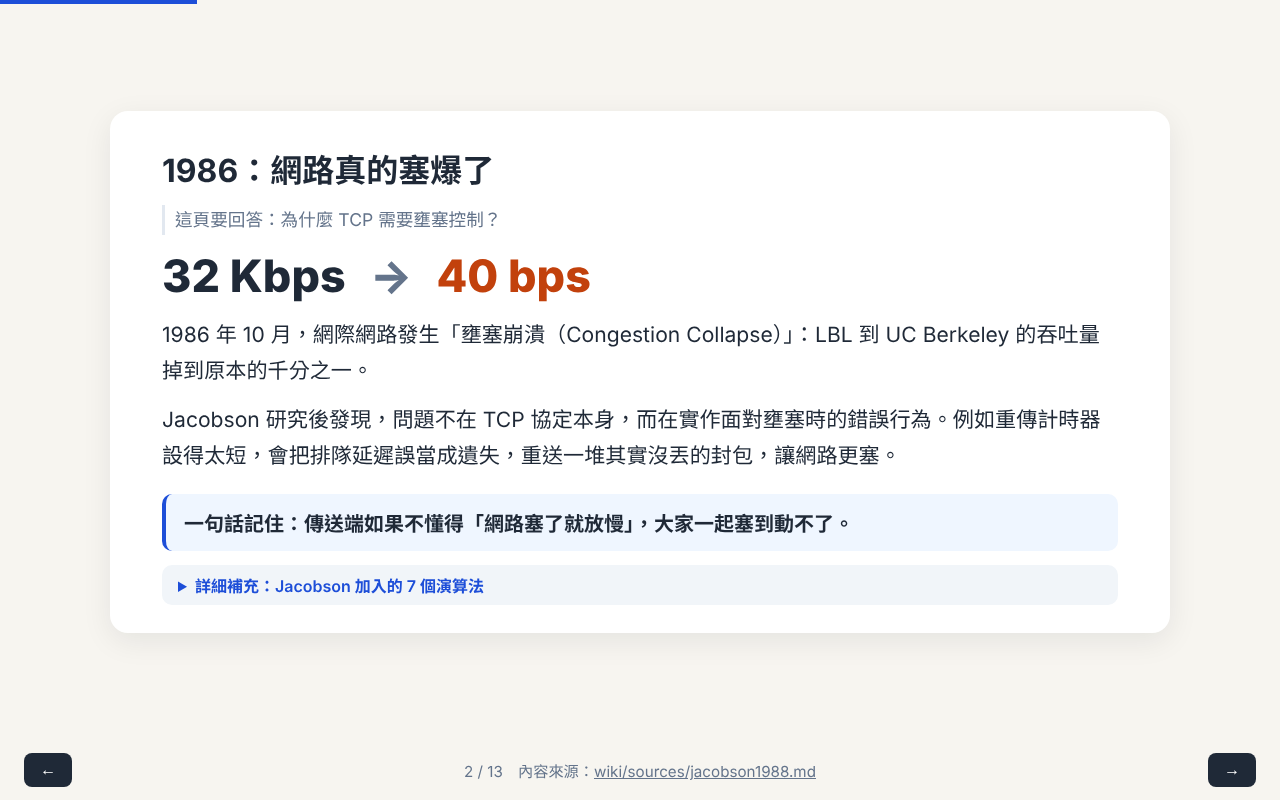
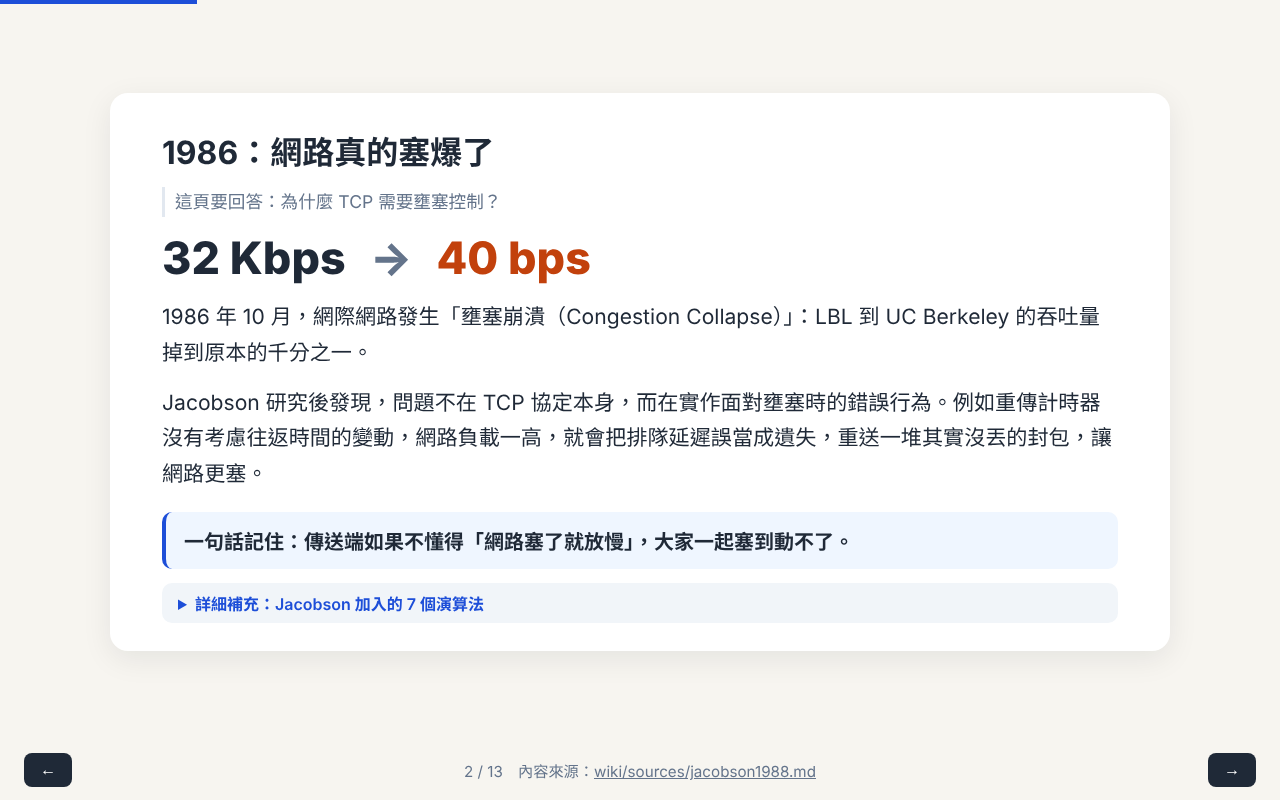
fix 10 issues from independent Gemini review (incl. percentage-point error in wiki)

Changed region(s): [[0.125, 0.1562, 0.875, 0.6875], [0.0938, 0.7188, 0.9062, 0.8125]]

diff --git a/slides/index.html b/slides/index.html
@@ -70,6 +70,7 @@ footer a{color:var(--muted)}
 </div>
 <details><summary>詳細補充：怎麼讀這份教材</summary>
 <p>用鍵盤左右鍵或下方按鈕換頁。每頁下方標示內容來自 wiki 的哪一頁；點開「詳細補充」可以看到更深入的說明與原文出處。</p>
+<p>「先備知識」依專案設定的目標讀者（修過基礎計概的大學生）列出，不屬於 wiki 內容。</p>
 <p>本教材所有內容都來自專案 wiki，而 wiki 只根據 6 份原始文獻撰寫：Jacobson 1988、RFC 5681、RFC 6582、RFC 6928、RFC 9438、BBR 2017。</p>
 </details>
 </section>
@@ -78,7 +79,7 @@ footer a{color:var(--muted)}
 <p class="q">這頁要回答：為什麼 TCP 需要壅塞控制？</p>
 <div class="bigstat"><span>32 Kbps</span><span class="arrow">→</span><span class="bad">40 bps</span></div>
 <p>1986 年 10 月，網際網路發生「壅塞崩潰（Congestion Collapse）」：LBL 到 UC Berkeley 的吞吐量掉到原本的千分之一。</p>
-<p>Jacobson 研究後發現，問題不在 TCP 協定本身，而在實作面對壅塞時的錯誤行為。例如重傳計時器設得太短，會把排隊延遲誤當成遺失，重送一堆其實沒丟的封包，讓網路更塞。</p>
+<p>Jacobson 研究後發現，問題不在 TCP 協定本身，而在實作面對壅塞時的錯誤行為。例如重傳計時器沒有考慮往返時間的變動，網路負載一高，就會把排隊延遲誤當成遺失，重送一堆其實沒丟的封包，讓網路更塞。</p>
 <div class="box key-box">一句話記住：傳送端如果不懂得「網路塞了就放慢」，大家一起塞到動不了。</div>
 <details><summary>詳細補充：Jacobson 加入的 7 個演算法</summary>
 <p>(i) 往返時間變異量估算、(ii) 指數型重傳計時器退避、(iii) 慢啟動、(iv) 更主動的接收端確認策略、(v) 壅塞時動態調整視窗、(vi) Karn 箝位重傳退避、(vii) 快速重傳。論文只詳述 (i) 至 (v)，快速重傳留待之後的 RFC 說明。</p>
@@ -123,12 +124,12 @@ footer a{color:var(--muted)}
 <li><b>起點很小</b>：cwnd 的初始值（IW）依 RFC 5681 是 2～4 個區段，因為一開始不知道網路有多大。</li>
 <li><b>每個 ACK 加 1</b>：每收到一個確認新資料的 ACK，cwnd 加 1 個區段。</li>
 <li><b>所以每個 RTT 翻倍</b>：這一輪送出幾個，下一輪就回來幾個 ACK，cwnd 就變成兩倍（1、2、4……）。</li>
-<li><b>碰到門檻就換模式</b>：cwnd 超過門檻 ssthresh 後，改用壅塞避免。</li>
+<li><b>碰到門檻就換模式</b>：cwnd 超過門檻 ssthresh 後，改用壅塞避免（剛好相等時兩種都可以）。</li>
 </ol>
 <div class="box key-box">一句話記住：名字叫「慢」，其實是指數成長。</div>
 <details><summary>詳細補充：初始值與門檻</summary>
 <p>1988 年的設計從 1 個封包開始；RFC 5681 依區段大小允許 2 到 4 個區段；RFC 6928 實驗性地提議 10 個區段（見 IW10 那頁）。ssthresh 一開始要設得很大，讓網路狀況決定何時停止翻倍。RTT（往返時間）是封包送出到收到 ACK 的時間。</p>
-<p class="cite">出處：[Jacobson 1988, §1, p.4]、[RFC 5681 §3.1]</p>
+<p class="cite">出處：[Jacobson 1988, §1, p.4]、[RFC 5681 §3.1]、[RFC 6928 §1]</p>
 </details>
 </section>
 <section data-src="wiki/concepts/congestion-avoidance.md">
@@ -136,7 +137,7 @@ footer a{color:var(--muted)}
 <p class="q">這頁要回答：cwnd 到了門檻之後，要怎麼繼續調整？</p>
 <div class="grid2">
 <div class="box"><h3>沒事時：慢慢加</h3><p>每個 RTT 只加約 1 個區段。實作上是每收到一個 ACK 加 1/cwnd，一整輪約加 1。</p></div>
-<div class="box warn-box"><h3>出事時：大幅砍</h3><p>發生遺失代表已經超過網路能負荷的量，門檻 ssthresh 降為在途資料量的一半。</p></div>
+<div class="box warn-box"><h3>出事時：大幅砍</h3><p>發生遺失代表已經超過網路能負荷的量，門檻 ssthresh 降為在途資料量的一半（但不小於 2 個區段）。</p></div>
 </div>
 <p>這種「加法增加、乘法減少」稱為 AIMD。Jacobson 認為減半有充分理由，但每輪加 1「幾乎肯定太大」。</p>
 <div class="box key-box">一句話記住：試探時小心翼翼，發現壅塞時立刻大退一步。</div>
@@ -168,7 +169,7 @@ footer a{color:var(--muted)}
 <g class="node"><rect x="10" y="95" width="130" height="56" rx="10"/><text x="75" y="129">慢啟動</text></g>
 <g class="node"><rect x="255" y="95" width="130" height="56" rx="10"/><text x="320" y="129">壅塞避免</text></g>
 <g class="node fr"><rect x="500" y="95" width="130" height="56" rx="10"/><text x="565" y="129">快速恢復</text></g>
-<path class="edge" d="M140,123 L255,123" marker-end="url(#arr)"/><text class="lbl" x="197" y="115">cwnd ≥ ssthresh</text>
+<path class="edge" d="M140,123 L255,123" marker-end="url(#arr)"/><text class="lbl" x="197" y="115">cwnd &gt; ssthresh</text>
 <path class="edge" d="M385,123 L500,123" marker-end="url(#arr)"/><text class="lbl" x="442" y="115">3 個重複 ACK</text>
 <path class="edge warn" d="M300,95 C300,40 95,40 95,95" marker-end="url(#arr)"/><text class="lbl warn" x="197" y="48">逾時：cwnd = 1</text>
 <path class="edge warn" d="M565,95 C565,-12 55,-12 55,95" marker-end="url(#arr)"/><text class="lbl warn" x="310" y="9">逾時：cwnd = 1</text>
@@ -177,7 +178,7 @@ footer a{color:var(--muted)}
 </svg>
 <ol class="steps compact">
 <li><b>快速重傳</b>：收到第 3 個重複 ACK，不等計時器，立刻重傳遺失的區段。</li>
-<li><b>快速恢復</b>：ssthresh 降為在途量的一半，cwnd 從 ssthresh 附近繼續，不退回 1。</li>
+<li><b>快速恢復</b>：ssthresh 降為在途量的一半，cwnd 先設為 ssthresh 加 3 個區段，不退回 1。</li>
 <li><b>結束</b>：收到確認新資料的 ACK，cwnd 縮回 ssthresh，回到壅塞避免。</li>
 </ol>
 <div class="box key-box">一句話記住：重複 ACK 代表後面的封包有到、ACK 時脈還在，所以不必從頭開始。</div>
@@ -186,7 +187,7 @@ footer a{color:var(--muted)}
 <p class="cite">出處：[RFC 5681 §3.2]</p>
 </details>
 </section>
-<section data-src="wiki/algorithms/new-reno.md">
+<section data-src="wiki/algorithms/new-reno.md wiki/sources/rfc6582.md">
 <h2>Reno 的弱點與 NewReno</h2>
 <p class="q">這頁要回答：同一批資料掉了好幾個封包，會發生什麼事？</p>
 <div class="grid2">
@@ -208,11 +209,11 @@ footer a{color:var(--muted)}
 <li><b>問題</b>：網頁物件變大，很多連線還沒離開慢啟動就結束，小的起點成了延遲瓶頸。</li>
 <li><b>提案</b>：RFC 6928 提議把初始視窗上限提高到 10 個區段（最多 14600 位元組）。</li>
 <li><b>效益</b>：超過 4 KB 的資料，最多省下 4 個 RTT；Google 實驗中平均搜尋延遲改善 11.7% 與 8.7%。</li>
-<li><b>代價</b>：重傳率小幅上升 0.3% 與 0.7%。</li>
+<li><b>代價</b>：重傳率小幅上升 0.3 與 0.7 個百分點。</li>
 </ul>
 <div class="box key-box">一句話記住：IW10 讓短連線更快，但它是實驗性提案，沒有監控能力的系統不得預設開啟。</div>
 <details><summary>詳細補充：和正式標準的差異</summary>
-<p>RFC 6928 的標頭沒有 Updates 欄位，所以本 wiki 把它和 RFC 5681 的差異（IW 上限、SYN 遺失後是否重設初始視窗）記錄為歧異，而不是正式演進。11.7% 與 8.7% 分別是 AvgDC 與 SlowDC 兩個資料中心的結果。</p>
+<p>RFC 6928 的標頭沒有 Updates 欄位，所以本 wiki 把它和 RFC 5681 的差異（IW 上限、SYN 遺失後是否重設初始視窗）記錄為歧異，而不是正式演進。11.7% 與 8.7% 分別是 AvgDC 與 SlowDC 兩個資料中心的結果；重傳率分別從 1.98% 升到 2.29%、從 3.54% 升到 4.21%。</p>
 <p class="cite">出處：[RFC 6928 §1]、[RFC 6928 §2]、[RFC 6928 §4]、[RFC 6928 §5.1]、[RFC 6928 §10.1]、[RFC 6928 §10.2]、[RFC 6928 §12]</p>
 </details>
 </section>
@@ -223,11 +224,11 @@ footer a{color:var(--muted)}
 <ul class="compact">
 <li><b>Reno 的問題</b>：壅塞後每個 RTT 只加 1，大頻寬網路要很久才能回到原本速度。</li>
 <li><b>CUBIC 的做法</b>：記住上次壅塞時的視窗 W_max，先快速長回去、接近 W_max 時放慢（凹），超過後再加速探測（凸）。</li>
-<li><b>減少較溫和</b>：遇到壅塞乘 0.7，Reno 是乘 0.5。</li>
+<li><b>減少較溫和</b>：遇到壅塞時，ssthresh 設為在途量乘 0.7；Reno 是乘 0.5。</li>
 </ul>
 <div class="box key-box">一句話記住：CUBIC 是目前 Linux、Windows 與 Apple 的預設演算法。</div>
 <details><summary>詳細補充：公式與參數</summary>
-<p>W_cubic(t) = C·(t − K)³ + W_max，C = 0.4。t 是距離上次壅塞的時間，K 是長回 W_max 所需的時間。因為視窗依「時間」而不是「ACK 次數」增長，不同 RTT 的連線也能較公平地分享頻寬。RFC 9438 正式更新了 RFC 5681。</p>
+<p>W_cubic(t) = C·(t − K)³ + W_max，C = 0.4。t 是距離上次壅塞的時間，K 是長回 W_max 所需的時間。因為視窗依「時間」而不是「ACK 次數」增長，不同 RTT 的連線也能較公平地分享頻寬。RFC 9438 正式更新了 RFC 5681。上圖只呈現曲線形狀，省略了 Reno-friendly 區域與 1.5 倍目標上限等細節。</p>
 <p class="cite">出處：[RFC 9438 §1]、[RFC 9438 §3.1]、[RFC 9438 §3.3]、[RFC 9438 §3.4]、[RFC 9438 §4.2]、[RFC 9438 §5.1]</p>
 </details>
 </section>
@@ -236,7 +237,7 @@ footer a{color:var(--muted)}
 <p class="q">這頁要回答：用「封包遺失」判斷壅塞，一定對嗎？</p>
 <p>BBR 的作者群（包括 1988 年的 Jacobson）認為，把遺失當成壅塞是早期技術限制下的選擇：緩衝區大時，loss-based 演算法會把它塞滿；緩衝區小時，又會把遺失誤判成壅塞。</p>
 <div class="grid2">
-<div class="box"><h3>BtlBw 瓶頸頻寬</h3><p>路徑最窄處能通過的速率，像水管最細處的粗細。</p></div>
+<div class="box"><h3>BtlBw 瓶頸頻寬</h3><p>路徑最窄處能通過的速率，像水管最窄處的直徑。</p></div>
 <div class="box"><h3>RTprop 往返傳播時間</h3><p>沒有排隊時的往返時間，像水管的長度。</p></div>
 </div>
 <p>BBR 持續量測這兩個數，讓在途資料量維持在 BDP（BtlBw × RTprop）附近。</p>

diff --git a/slides/drafts/10.html b/slides/drafts/10.html
@@ -6,11 +6,11 @@
 <li><b>問題</b>：網頁物件變大，很多連線還沒離開慢啟動就結束，小的起點成了延遲瓶頸。</li>
 <li><b>提案</b>：RFC 6928 提議把初始視窗上限提高到 10 個區段（最多 14600 位元組）。</li>
 <li><b>效益</b>：超過 4 KB 的資料，最多省下 4 個 RTT；Google 實驗中平均搜尋延遲改善 11.7% 與 8.7%。</li>
-<li><b>代價</b>：重傳率小幅上升 0.3% 與 0.7%。</li>
+<li><b>代價</b>：重傳率小幅上升 0.3 與 0.7 個百分點。</li>
 </ul>
 <div class="box key-box">一句話記住：IW10 讓短連線更快，但它是實驗性提案，沒有監控能力的系統不得預設開啟。</div>
 <details><summary>詳細補充：和正式標準的差異</summary>
-<p>RFC 6928 的標頭沒有 Updates 欄位，所以本 wiki 把它和 RFC 5681 的差異（IW 上限、SYN 遺失後是否重設初始視窗）記錄為歧異，而不是正式演進。11.7% 與 8.7% 分別是 AvgDC 與 SlowDC 兩個資料中心的結果。</p>
+<p>RFC 6928 的標頭沒有 Updates 欄位，所以本 wiki 把它和 RFC 5681 的差異（IW 上限、SYN 遺失後是否重設初始視窗）記錄為歧異，而不是正式演進。11.7% 與 8.7% 分別是 AvgDC 與 SlowDC 兩個資料中心的結果；重傳率分別從 1.98% 升到 2.29%、從 3.54% 升到 4.21%。</p>
 <p class="cite">出處：[RFC 6928 §1]、[RFC 6928 §2]、[RFC 6928 §4]、[RFC 6928 §5.1]、[RFC 6928 §10.1]、[RFC 6928 §10.2]、[RFC 6928 §12]</p>
 </details>
 </section>

diff --git a/slides/drafts/11.html b/slides/drafts/11.html
@@ -5,11 +5,11 @@
 <ul class="compact">
 <li><b>Reno 的問題</b>：壅塞後每個 RTT 只加 1，大頻寬網路要很久才能回到原本速度。</li>
 <li><b>CUBIC 的做法</b>：記住上次壅塞時的視窗 W_max，先快速長回去、接近 W_max 時放慢（凹），超過後再加速探測（凸）。</li>
-<li><b>減少較溫和</b>：遇到壅塞乘 0.7，Reno 是乘 0.5。</li>
+<li><b>減少較溫和</b>：遇到壅塞時，ssthresh 設為在途量乘 0.7；Reno 是乘 0.5。</li>
 </ul>
 <div class="box key-box">一句話記住：CUBIC 是目前 Linux、Windows 與 Apple 的預設演算法。</div>
 <details><summary>詳細補充：公式與參數</summary>
-<p>W_cubic(t) = C·(t − K)³ + W_max，C = 0.4。t 是距離上次壅塞的時間，K 是長回 W_max 所需的時間。因為視窗依「時間」而不是「ACK 次數」增長，不同 RTT 的連線也能較公平地分享頻寬。RFC 9438 正式更新了 RFC 5681。</p>
+<p>W_cubic(t) = C·(t − K)³ + W_max，C = 0.4。t 是距離上次壅塞的時間，K 是長回 W_max 所需的時間。因為視窗依「時間」而不是「ACK 次數」增長，不同 RTT 的連線也能較公平地分享頻寬。RFC 9438 正式更新了 RFC 5681。上圖只呈現曲線形狀，省略了 Reno-friendly 區域與 1.5 倍目標上限等細節。</p>
 <p class="cite">出處：[RFC 9438 §1]、[RFC 9438 §3.1]、[RFC 9438 §3.3]、[RFC 9438 §3.4]、[RFC 9438 §4.2]、[RFC 9438 §5.1]</p>
 </details>
 </section>

diff --git a/slides/drafts/02.html b/slides/drafts/02.html
@@ -3,7 +3,7 @@
 <p class="q">這頁要回答：為什麼 TCP 需要壅塞控制？</p>
 <div class="bigstat"><span>32 Kbps</span><span class="arrow">→</span><span class="bad">40 bps</span></div>
 <p>1986 年 10 月，網際網路發生「壅塞崩潰（Congestion Collapse）」：LBL 到 UC Berkeley 的吞吐量掉到原本的千分之一。</p>
-<p>Jacobson 研究後發現，問題不在 TCP 協定本身，而在實作面對壅塞時的錯誤行為。例如重傳計時器設得太短，會把排隊延遲誤當成遺失，重送一堆其實沒丟的封包，讓網路更塞。</p>
+<p>Jacobson 研究後發現，問題不在 TCP 協定本身，而在實作面對壅塞時的錯誤行為。例如重傳計時器沒有考慮往返時間的變動，網路負載一高，就會把排隊延遲誤當成遺失，重送一堆其實沒丟的封包，讓網路更塞。</p>
 <div class="box key-box">一句話記住：傳送端如果不懂得「網路塞了就放慢」，大家一起塞到動不了。</div>
 <details><summary>詳細補充：Jacobson 加入的 7 個演算法</summary>
 <p>(i) 往返時間變異量估算、(ii) 指數型重傳計時器退避、(iii) 慢啟動、(iv) 更主動的接收端確認策略、(v) 壅塞時動態調整視窗、(vi) Karn 箝位重傳退避、(vii) 快速重傳。論文只詳述 (i) 至 (v)，快速重傳留待之後的 RFC 說明。</p>

diff --git a/slides/drafts/05.html b/slides/drafts/05.html
@@ -5,11 +5,11 @@
 <li><b>起點很小</b>：cwnd 的初始值（IW）依 RFC 5681 是 2～4 個區段，因為一開始不知道網路有多大。</li>
 <li><b>每個 ACK 加 1</b>：每收到一個確認新資料的 ACK，cwnd 加 1 個區段。</li>
 <li><b>所以每個 RTT 翻倍</b>：這一輪送出幾個，下一輪就回來幾個 ACK，cwnd 就變成兩倍（1、2、4……）。</li>
-<li><b>碰到門檻就換模式</b>：cwnd 超過門檻 ssthresh 後，改用壅塞避免。</li>
+<li><b>碰到門檻就換模式</b>：cwnd 超過門檻 ssthresh 後，改用壅塞避免（剛好相等時兩種都可以）。</li>
 </ol>
 <div class="box key-box">一句話記住：名字叫「慢」，其實是指數成長。</div>
 <details><summary>詳細補充：初始值與門檻</summary>
 <p>1988 年的設計從 1 個封包開始；RFC 5681 依區段大小允許 2 到 4 個區段；RFC 6928 實驗性地提議 10 個區段（見 IW10 那頁）。ssthresh 一開始要設得很大，讓網路狀況決定何時停止翻倍。RTT（往返時間）是封包送出到收到 ACK 的時間。</p>
-<p class="cite">出處：[Jacobson 1988, §1, p.4]、[RFC 5681 §3.1]</p>
+<p class="cite">出處：[Jacobson 1988, §1, p.4]、[RFC 5681 §3.1]、[RFC 6928 §1]</p>
 </details>
 </section>

diff --git a/slides/drafts/06.html b/slides/drafts/06.html
@@ -3,7 +3,7 @@
 <p class="q">這頁要回答：cwnd 到了門檻之後，要怎麼繼續調整？</p>
 <div class="grid2">
 <div class="box"><h3>沒事時：慢慢加</h3><p>每個 RTT 只加約 1 個區段。實作上是每收到一個 ACK 加 1/cwnd，一整輪約加 1。</p></div>
-<div class="box warn-box"><h3>出事時：大幅砍</h3><p>發生遺失代表已經超過網路能負荷的量，門檻 ssthresh 降為在途資料量的一半。</p></div>
+<div class="box warn-box"><h3>出事時：大幅砍</h3><p>發生遺失代表已經超過網路能負荷的量，門檻 ssthresh 降為在途資料量的一半（但不小於 2 個區段）。</p></div>
 </div>
 <p>這種「加法增加、乘法減少」稱為 AIMD。Jacobson 認為減半有充分理由，但每輪加 1「幾乎肯定太大」。</p>
 <div class="box key-box">一句話記住：試探時小心翼翼，發現壅塞時立刻大退一步。</div>

diff --git a/slides/drafts/12.html b/slides/drafts/12.html
@@ -3,7 +3,7 @@
 <p class="q">這頁要回答：用「封包遺失」判斷壅塞，一定對嗎？</p>
 <p>BBR 的作者群（包括 1988 年的 Jacobson）認為，把遺失當成壅塞是早期技術限制下的選擇：緩衝區大時，loss-based 演算法會把它塞滿；緩衝區小時，又會把遺失誤判成壅塞。</p>
 <div class="grid2">
-<div class="box"><h3>BtlBw 瓶頸頻寬</h3><p>路徑最窄處能通過的速率，像水管最細處的粗細。</p></div>
+<div class="box"><h3>BtlBw 瓶頸頻寬</h3><p>路徑最窄處能通過的速率，像水管最窄處的直徑。</p></div>
 <div class="box"><h3>RTprop 往返傳播時間</h3><p>沒有排隊時的往返時間，像水管的長度。</p></div>
 </div>
 <p>BBR 持續量測這兩個數，讓在途資料量維持在 BDP（BtlBw × RTprop）附近。</p>

diff --git a/slides/drafts/08.html b/slides/drafts/08.html
@@ -4,7 +4,7 @@
 <svg id="state-diagram" viewBox="0 0 640 250" role="img" aria-label="TCP 壅塞控制狀態轉移圖"></svg>
 <ol class="steps compact">
 <li><b>快速重傳</b>：收到第 3 個重複 ACK，不等計時器，立刻重傳遺失的區段。</li>
-<li><b>快速恢復</b>：ssthresh 降為在途量的一半，cwnd 從 ssthresh 附近繼續，不退回 1。</li>
+<li><b>快速恢復</b>：ssthresh 降為在途量的一半，cwnd 先設為 ssthresh 加 3 個區段，不退回 1。</li>
 <li><b>結束</b>：收到確認新資料的 ACK，cwnd 縮回 ssthresh，回到壅塞避免。</li>
 </ol>
 <div class="box key-box">一句話記住：重複 ACK 代表後面的封包有到、ACK 時脈還在，所以不必從頭開始。</div>

diff --git a/slides/drafts/01.html b/slides/drafts/01.html
@@ -8,6 +8,7 @@
 </div>
 <details><summary>詳細補充：怎麼讀這份教材</summary>
 <p>用鍵盤左右鍵或下方按鈕換頁。每頁下方標示內容來自 wiki 的哪一頁；點開「詳細補充」可以看到更深入的說明與原文出處。</p>
+<p>「先備知識」依專案設定的目標讀者（修過基礎計概的大學生）列出，不屬於 wiki 內容。</p>
 <p>本教材所有內容都來自專案 wiki，而 wiki 只根據 6 份原始文獻撰寫：Jacobson 1988、RFC 5681、RFC 6582、RFC 6928、RFC 9438、BBR 2017。</p>
 </details>
 </section>

diff --git a/slides/drafts/09.html b/slides/drafts/09.html
@@ -1,4 +1,4 @@
-<section data-src="wiki/algorithms/new-reno.md">
+<section data-src="wiki/algorithms/new-reno.md wiki/sources/rfc6582.md">
 <h2>Reno 的弱點與 NewReno</h2>
 <p class="q">這頁要回答：同一批資料掉了好幾個封包，會發生什麼事？</p>
 <div class="grid2">

diff --git a/scripts/build_slides.py b/scripts/build_slides.py
@@ -29,7 +29,7 @@ STATE_DIAGRAM = """
 <g class="node"><rect x="10" y="95" width="130" height="56" rx="10"/><text x="75" y="129">慢啟動</text></g>
 <g class="node"><rect x="255" y="95" width="130" height="56" rx="10"/><text x="320" y="129">壅塞避免</text></g>
 <g class="node fr"><rect x="500" y="95" width="130" height="56" rx="10"/><text x="565" y="129">快速恢復</text></g>
-<path class="edge" d="M140,123 L255,123" marker-end="url(#arr)"/><text class="lbl" x="197" y="115">cwnd ≥ ssthresh</text>
+<path class="edge" d="M140,123 L255,123" marker-end="url(#arr)"/><text class="lbl" x="197" y="115">cwnd &gt; ssthresh</text>
 <path class="edge" d="M385,123 L500,123" marker-end="url(#arr)"/><text class="lbl" x="442" y="115">3 個重複 ACK</text>
 <path class="edge warn" d="M300,95 C300,40 95,40 95,95" marker-end="url(#arr)"/><text class="lbl warn" x="197" y="48">逾時：cwnd = 1</text>
 <path class="edge warn" d="M565,95 C565,-12 55,-12 55,95" marker-end="url(#arr)"/><text class="lbl warn" x="310" y="9">逾時：cwnd = 1</text>

diff --git a/reports/review-20261122-gemini.md b/reports/review-20261122-gemini.md
@@ -1,0 +1,49 @@
+# 獨立 AI 忠實度審查報告（2026-11-22）
+
+- **審查者**：Gemini 網頁版（gemini.google.com），全新對話；與作者（Claude）不同模型，未看過製作過程
+- **提供給審查者的資料**：`review-bundle.txt`（slides/index.html、wiki/*.md、raw/*.txt 合併成單一檔），以及 `reports/review-prompt.md` 的審查 prompt
+- **受審版本**：簡報修訂版（正文上限 180 字）
+
+## 作者處理結果
+
+| 頁 | 審查意見摘要 | 判斷 | 處理 |
+| :--- | :--- | :--- | :--- |
+| 10 | 重傳率「0.3% / 0.7%」應為百分點（1.98%→2.29%、3.54%→4.21%），易誤解為相對增幅 | **錯誤（源頭在 wiki）** | 退回 wiki：修正 `wiki/parameters.md` 與 `wiki/sources/rfc6928.md`，再修簡報第 10 頁 |
+| 8 | 狀態圖寫 `cwnd ≥ ssthresh`，RFC 5681 為 `>`；「cwnd 從 ssthresh 附近繼續」不精確 | 接受 | 圖改為 `cwnd > ssthresh`；步驟改為「cwnd 先設為 ssthresh 加 3 個區段」 |
+| 11 | 「遇到壅塞乘 0.7」不精確：β 是乘在在途量上得到 ssthresh；圖省略 Reno-friendly 與 1.5 倍上限 | 接受 | 改為「ssthresh 設為在途量乘 0.7」；details 註明圖只呈現形狀 |
+| 5 | 未說明相等時的情況；details 提到 RFC 6928 但未標出處 | 接受 | 加「剛好相等時兩種都可以」；補 RFC 6928 §1 出處 |
+| 6 | 主文未呈現 ssthresh 下限 2*SMSS | 接受 | 加「但不小於 2 個區段」 |
+| 2 | 計時器說明過度簡化，原文重點是未考慮 RTT 變動 | 接受 | 改為「重傳計時器沒有考慮往返時間的變動」 |
+| 9 | 提到 Tahoe，但 data-src 頁面未討論 Tahoe | 接受 | data-src 補上 `wiki/sources/rfc6582.md` |
+| 12 | 「粗細」應依原文用「直徑」 | 接受 | 改為「直徑」 |
+| 1 | 先備知識不在 wiki/index.md | 接受（說明） | details 註明先備知識依專案設定的目標讀者列出 |
+| 7 | 模擬省略 fast recovery 膨脹／縮回，遺失條件為示意 | 不修改 | details 已明確說明為簡化示意，且這是為了讓初學者看清兩種反應的差異 |
+
+修正後：lint --slides PASS（`reports/lint-20261122-212703.md`）、渲染檢查 PASS（`reports/render-20261122-212709.md`）。
+
+## 審查者原文
+
+以下針對 `slides/index.html` 共 13 頁投影片（含 `<details>` 補充區塊、SVG 圖表與 `<script>` 模擬邏輯）逐頁進行技術與忠實度審查：
+
+| 頁 | 問題 | 嚴重度（錯誤／不精確／建議） | 依據（wiki 或 raw 的位置） |
+| --- | --- | --- | --- |
+| 1 | 列出「封包交換、TCP 三向交握、序號與 ACK（確認）」為先備知識，但 `data-src` 指定的 `wiki/index.md` 僅為目錄索引，未定義這些先備知識項目。 | 建議 | `slides/index.html`（第 1 頁 `data-src="wiki/index.md"`）、`wiki/index.md` |
+| 2 | 正文提到重傳計時器設得太短會把排隊延遲誤當遺失並重送未遺失封包；原文與 wiki 更精確指出固定倍數計時器在負載較高時無法適應 RTT 變異而導致偽重傳，且重傳退避與逾時偵測在各節有各自脈絡。 | 建議 | `slides/index.html`（第 2 頁）、`wiki/sources/jacobson1988.md`（§2）、`raw/jacobson1988.txt`（§2, p.7 & Appendix A） |
+| 5 | 第 4 點寫「`cwnd` 超過門檻 `ssthresh` 後，改用壅塞避免」；RFC 5681 規範 `cwnd < ssthresh` 時用 slow start、`cwnd > ssthresh` 時用 congestion avoidance（相等時可任選其一），而 Jacobson 1988 則以 `cwnd >= ssthresh` 切換。此外 `<details>` 提及 `RFC 6928`（IW10）與 `RTT`，但出處列僅標示 `[Jacobson 1988, §1, p.4]` 與 `[RFC 5681 §3.1]`。 | 不精確 | `slides/index.html`（第 5 頁）、`wiki/concepts/slow-start.md`、`raw/rfc5681.txt`（§3.1）、`raw/jacobson1988.txt`（Appendix B, p.20） |
+| 6 | 右欄寫「門檻 `ssthresh` 降為在途資料量的一半」，未呈現 RFC 5681 的下限 `2*SMSS`（`max(FlightSize/2, 2*SMSS)`），雖在 `<details>` 有補充，但主卡片敘述略顯簡化。 | 建議 | `slides/index.html`（第 6 頁）、`wiki/concepts/congestion-avoidance.md`、`wiki/parameters.md`、`raw/rfc5681.txt`（§3.1, Eq. 4） |
+| 7 | `<script>` 中 `simulate(mode)` 在 `dupack` 模式下於 `cwnd > capacity` 觸發遺失後直接將 `cwnd` 設為 `ssthresh`，未模擬 RFC 5681 fast recovery 期間的視窗膨脹（`ssthresh + 3*SMSS` 與後續重複 ACK 膨脹）與收到新 ACK 後縮回（deflate）；此外模擬以 `cwnd > capacity`（20）作為遺失條件並以 `cwnd` 推算 `ssthresh`，屬於簡化示意模型（`<details>` 已說明省略膨脹與容量為示意）。 | 不精確 | `slides/index.html`（第 7 頁 `<script>` `simulate` 與 `<details>`）、`wiki/concepts/packet-loss-detection.md`、`raw/rfc5681.txt`（§3.1–3.2） |
+| 8 | SVG 狀態圖中「慢啟動 → 壅塞避免」標示 `cwnd ≥ ssthresh`，與 RFC 5681 §3.1 的 `cwnd > ssthresh` 略有出入（較貼近 Jacobson 1988 Appendix B 的 `>=`）；另第 2 點文字「`cwnd` 從 `ssthresh` 附近繼續」在 RFC 5681 §3.2 實作中進入 fast recovery 時是設為 `ssthresh + 3*SMSS` 並隨重複 ACK 膨脹，結束時才縮回 `ssthresh`。 | 不精確 | `slides/index.html`（第 8 頁 SVG 與步驟 2）、`wiki/concepts/fast-retransmit-fast-recovery.md`、`raw/rfc5681.txt`（§3.1, §3.2） |
+| 9 | `<details>` 提到「常見的『Tahoe』在本教材的文獻中沒有定義，所以不使用」，但 `data-src` 指定的 `wiki/algorithms/new-reno.md` 未討論 Tahoe（僅 `wiki/sources/rfc6582.md` 提及參考文獻標題含 Tahoe）。 | 建議 | `slides/index.html`（第 9 頁 `<details>`）、`wiki/algorithms/new-reno.md`、`wiki/sources/rfc6582.md` |
+| 10 | 寫「重傳率小幅上升 0.3% 與 0.7%」；RFC 6928 §10.2 實際呈現的是 AvgDC 重傳率由 1.98% 升至 2.29%（增加約 0.3 個百分點）、SlowDC 由 3.54% 升至 4.21%（增加約 0.7 個百分點），表述上易被誤解為相對增幅。 | 不精確 | `slides/index.html`（第 10 頁）、`wiki/parameters.md`、`wiki/sources/rfc6928.md`（§10.2）、`raw/rfc6928.txt`（§10.2, p.12） |
+| 11 | 1) 正文寫「遇到壅塞乘 0.7」，RFC 9438 §4.6 定義 `β_cubic = 0.7` 用於計算 `ssthresh = flight_size * β_cubic`，而 `cwnd` 降為 `max(ssthresh, 2)`（逾時則依 Reno 降為 1 區段並以 `β_cubic` 算 `ssthresh`）。<br>
+
+<br>2) `<script>` 繪製 `cubic-chart` 時以 `start = Wmax * beta` 代入 `K = Math.cbrt((Wmax - start) / C)`，並未呈現 RFC 9438 §4.2 的 `target` 上下限（`1.5 * cwnd`）與 §4.3 的 Reno-friendly `W_est` 切換，僅為曲線形狀示意。 | 不精確 | `slides/index.html`（第 11 頁文字與 `<script>` `cubic-chart`）、`wiki/algorithms/cubic.md`、`wiki/parameters.md`、`raw/rfc9438.txt`（§4.2–4.8） |
+| 12 | `BtlBw` 比喻寫為「像水管最細處的粗細」；`wiki/algorithms/bbr.md` 與 `raw/bbr2017.txt` 皆明確使用「直徑」而非籠統的「粗細」。 | 建議 | `slides/index.html`（第 12 頁）、`wiki/algorithms/bbr.md`、`raw/bbr2017.txt`（"Congestion and Bottlenecks", p.58） |
+
+---
+
+### 總評
+
+整體而言，這份 13 頁的 HTML 簡報架構清楚、視覺互動設計（第 7 頁遺失信號切換模擬與第 11 頁 CUBIC 曲線）有助於大學生建立直覺，且核心參數（如 `DupThresh = 3`、`LW = 1`、`C = 0.4`、`β_cubic = 0.7`、`IW10` 10 區段／14600 位元組與 Google 實驗數據、BBR 2 Gbps vs. 15 Mbps）與 `wiki/parameters.md` 及原始文獻大致一致，未出現違背核心原理的重大錯誤或禁用詞違規；主要瑕疵集中在部分邊界條件（如 `>` 與 `>=`、fast recovery 的膨脹與縮回、`0.3% / 0.7%` 百分點差異）的簡化，以及圖表腳本對協定細節的省略。對初次接觸 TCP 壅塞控制的大學生而言，建議在講解第 7 頁與第 11 頁圖表時搭配口頭說明「此為簡化示意模型」，並補充說明 `ssthresh` 與 `cwnd` 在進入／離開恢復階段的差異，會更有助於建立精確心智模型。
+
+**沒有發現問題的頁面：第 3 頁、第 4 頁、第 13 頁。**
